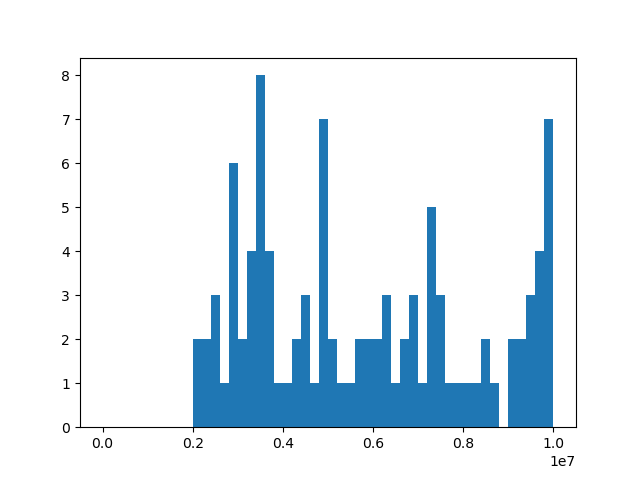
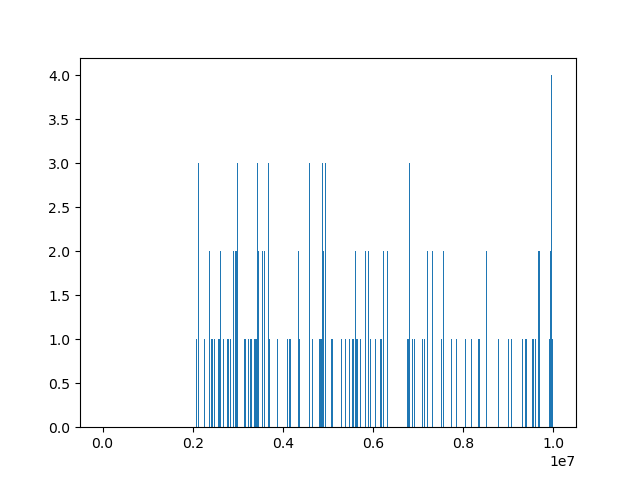
Updated 3_11_24

diff --git a/CallsToBlock.py b/CallsToBlock.py
@@ -10,7 +10,9 @@ import csv
 import matplotlib.pyplot as plt
 
 # Input and output files
-input_file = 'BlockedCalls_without296_last100.txt'
+#input_file = 'BlockedCalls.txt'
+input_file = 'BlockedCalls_without296.txt'
+#input_file = 'BlockedCalls_without296_last100.txt'
 output_file = 'BlockedCalls.png'
 
 # Read in data
@@ -30,7 +32,7 @@ print('')
 # First we have possibilities from 650-000-0000 to 650-999-9999
 full_range = 9999999+1
 # Bin width of 100,000 means 650-[0-9][0-9]X-XXXX
-bin_width = 200000
+bin_width = 20000
 nbins = int(full_range/bin_width)
 # Print some details
 print('Full number range = '+str(full_range))
@@ -56,8 +58,8 @@ counts.sort()
 counts[:] = counts[::-1]
 
 # Print results
-print('Assuming 2,400,000 calls can be blocked')
-blocked_bins = int(2400000/bin_width)
+print('Assuming 1,000,000 calls can be blocked')
+blocked_bins = int(1000000/bin_width)
 print('You can block the top'+' '+str(blocked_bins)+' bins')
 blocked_counts = np.sum(counts[:blocked_bins])
 print('This accounts for '+str(blocked_counts/np.sum(counts)*100)+' % of the blocked numbers')
